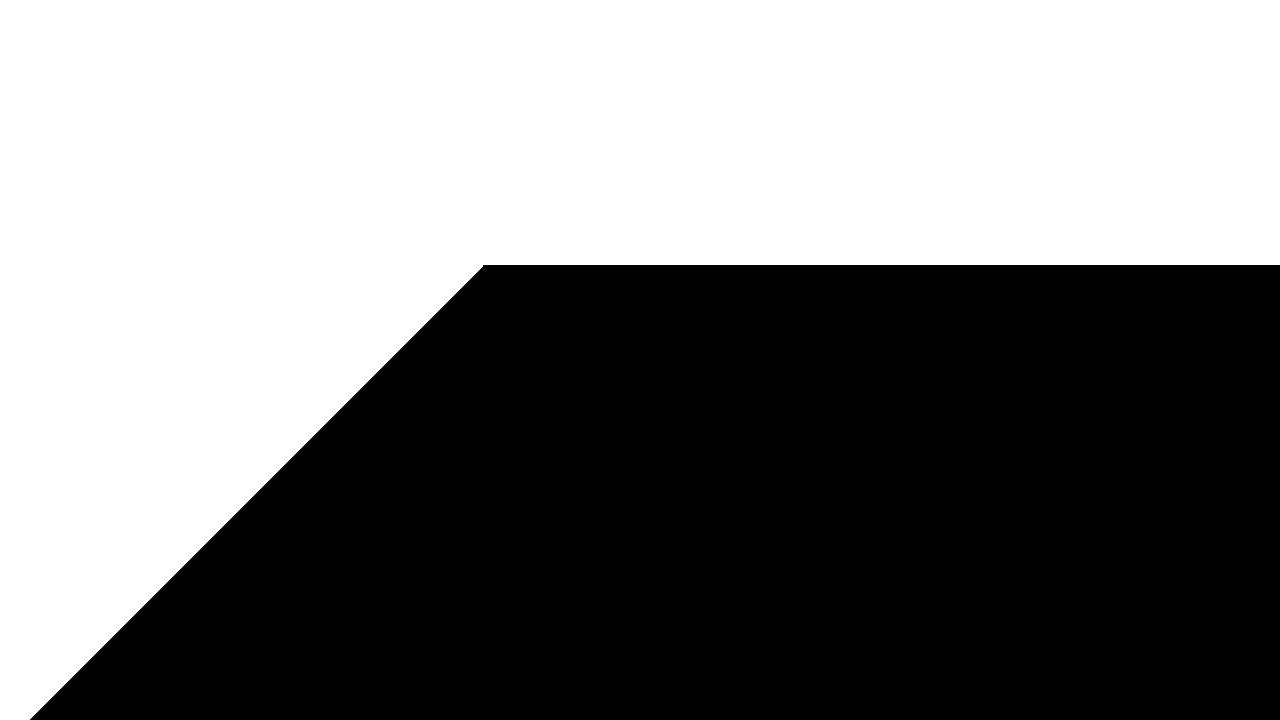
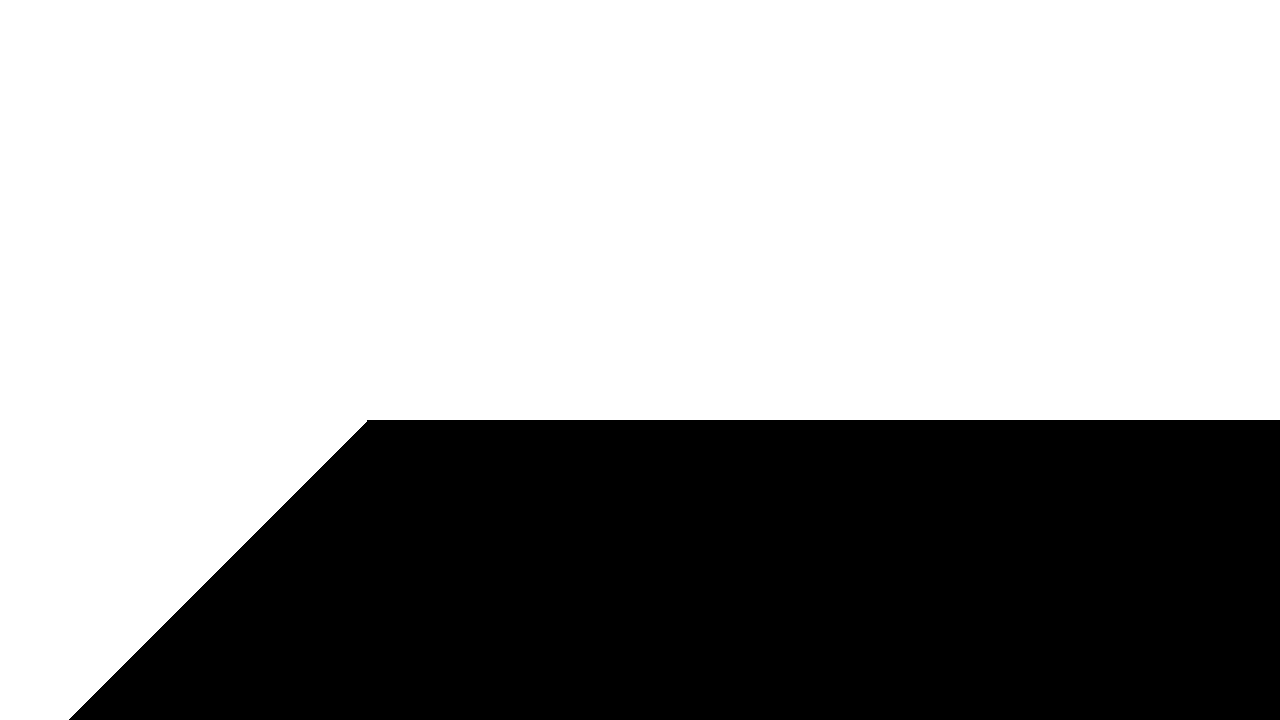
# 0.20

Changed region(s): [[0.0312, 0.3667, 1.0, 1.0]]

diff --git a/RunawayTrain/RaspberryPi/DrivingManager.h b/RunawayTrain/RaspberryPi/DrivingManager.h
@@ -13,7 +13,7 @@ class DrivingManager
 private:
 
 	bool mDebugProcessShow = true;
-	bool mDebugImageTest = false;
+	bool mDebugImageTest = true;
 
 	RoadTracer* mRoadTracer = RoadTracer::Instance();
 	MotorController* mMotorController = MotorController::Instance();
@@ -62,11 +62,14 @@ private:
 		if (!mDebugImageTest)
 		{
 			mCapture.read(mFrameOrigianl);
+
+#ifdef WINDOWS
 			if (mFrameOrigianl.empty())
 			{
 				cout << "Error : DrivingManager::Preprocess";
 				exit(-1);
 			}
+#endif
 		}
 		else
 		{
@@ -98,7 +101,9 @@ private:
 			testCase++;
 		}
 
-		resize(mFrameOrigianl, mFrameOrigianl, { 1280, 720 });
+#ifdef WINDOWS
+		resize(mFrameOrigianl, mFrameOrigianl, { 640, 480 });
+#endif
 		mFrameOrigianl.copyTo(mFrameFinal);
 	}
 
@@ -169,7 +174,7 @@ public:
 			}
 
 			putText(mFrameFinal,
-				to_string(int(1 / mLoopTimer.GetElapsedTime())), { 1200,40 },
+				to_string(int(1 / mLoopTimer.GetElapsedTime())), { 600,40 },
 				FONT_HERSHEY_DUPLEX, 1, Scalar(0, 255, 0), 1);
 
 			putText(mFrameFinal,

diff --git a/RunawayTrain/Windows/DrivingManager.h b/RunawayTrain/Windows/DrivingManager.h
@@ -13,7 +13,7 @@ class DrivingManager
 private:
 
 	bool mDebugProcessShow = true;
-	bool mDebugImageTest = false;
+	bool mDebugImageTest = true;
 
 	RoadTracer* mRoadTracer = RoadTracer::Instance();
 	MotorController* mMotorController = MotorController::Instance();
@@ -62,11 +62,14 @@ private:
 		if (!mDebugImageTest)
 		{
 			mCapture.read(mFrameOrigianl);
+
+#ifdef WINDOWS
 			if (mFrameOrigianl.empty())
 			{
 				cout << "Error : DrivingManager::Preprocess";
 				exit(-1);
 			}
+#endif
 		}
 		else
 		{
@@ -98,7 +101,9 @@ private:
 			testCase++;
 		}
 
-		resize(mFrameOrigianl, mFrameOrigianl, { 1280, 720 });
+#ifdef WINDOWS
+		resize(mFrameOrigianl, mFrameOrigianl, { 640, 480 });
+#endif
 		mFrameOrigianl.copyTo(mFrameFinal);
 	}
 
@@ -169,7 +174,7 @@ public:
 			}
 
 			putText(mFrameFinal,
-				to_string(int(1 / mLoopTimer.GetElapsedTime())), { 1200,40 },
+				to_string(int(1 / mLoopTimer.GetElapsedTime())), { 560,40 },
 				FONT_HERSHEY_DUPLEX, 1, Scalar(0, 255, 0), 1);
 
 			putText(mFrameFinal,

diff --git a/RunawayTrain/Windows/RoadTracer.h b/RunawayTrain/Windows/RoadTracer.h
@@ -17,14 +17,14 @@ private:
 	Mat mFrameOriginal, mFrameFinal;
 	Mat mFramePerspective, mFrameEdge, mFrameEdgeCenter, mFrameHistogram;
 
-	float mXMarginTop = 100;	// 267
+	float mXMarginTop = 0;	// 267
 	float mXMarginBottom = 0;	// 66
-	float mYPos = 360;			// 480
-	float mYSize = 360;			// 66
+	float mYPos = 240;			// 480
+	float mYSize = 240;			// 66
 
 	Point2f mSrcROI[4] = {
-		{mXMarginTop,mYPos}, {1280 - mXMarginTop,mYPos},
-		{mXMarginBottom, mYPos + mYSize}, {1280 - mXMarginBottom, mYPos + mYSize}
+		{mXMarginTop,mYPos}, {640 - mXMarginTop,mYPos},
+		{mXMarginBottom, mYPos + mYSize}, {640 - mXMarginBottom, mYPos + mYSize}
 	};
 
 	Point2f mDstROI[4] = {

diff --git a/RunawayTrain/RaspberryPi/RoadTracer.cpp b/RunawayTrain/RaspberryPi/RoadTracer.cpp
@@ -17,8 +17,8 @@ void RoadTracer::Threshold()
 	cvtColor(mFramePerspective, mFramePerspective, COLOR_BGR2GRAY);
 	GaussianBlur(mFramePerspective, mFramePerspective, Size(7, 7), 0, 0);
 	threshold(mFramePerspective, mFramePerspective, 80, 255, THRESH_BINARY);
-	Canny(mFramePerspective, mFrameEdge, 50, 150, 3, false);
-	HoughLines(mFrameEdge, mLines, 1, 1 * CV_PI / 180, 80);
+	Canny(mFramePerspective, mFrameEdge, 50, 100, 3, false);
+	HoughLines(mFrameEdge, mLines, 1, 1 * CV_PI / 180, 75);
 	cvtColor(mFrameEdge, mFrameEdge, COLOR_GRAY2BGR);
 
 	float rho, theta;

diff --git a/RunawayTrain/Windows/RoadTracer.cpp b/RunawayTrain/Windows/RoadTracer.cpp
@@ -17,8 +17,8 @@ void RoadTracer::Threshold()
 	cvtColor(mFramePerspective, mFramePerspective, COLOR_BGR2GRAY);
 	GaussianBlur(mFramePerspective, mFramePerspective, Size(7, 7), 0, 0);
 	threshold(mFramePerspective, mFramePerspective, 80, 255, THRESH_BINARY);
-	Canny(mFramePerspective, mFrameEdge, 50, 150, 3, false);
-	HoughLines(mFrameEdge, mLines, 1, 1 * CV_PI / 180, 80);
+	Canny(mFramePerspective, mFrameEdge, 50, 100, 3, false);
+	HoughLines(mFrameEdge, mLines, 1, 1 * CV_PI / 180, 75);
 	cvtColor(mFrameEdge, mFrameEdge, COLOR_GRAY2BGR);
 
 	float rho, theta;

diff --git a/RunawayTrain/RaspberryPi/RoadTracer.h b/RunawayTrain/RaspberryPi/RoadTracer.h
@@ -19,12 +19,12 @@ private:
 
 	float mXMarginTop = 100;	// 267
 	float mXMarginBottom = 0;	// 66
-	float mYPos = 360;			// 480
-	float mYSize = 360;			// 66
+	float mYPos = 240;			// 480
+	float mYSize = 240;			// 66
 
 	Point2f mSrcROI[4] = {
-		{mXMarginTop,mYPos}, {1280 - mXMarginTop,mYPos},
-		{mXMarginBottom, mYPos + mYSize}, {1280 - mXMarginBottom, mYPos + mYSize}
+		{mXMarginTop,mYPos}, {720 - mXMarginTop,mYPos},
+		{mXMarginBottom, mYPos + mYSize}, {720 - mXMarginBottom, mYPos + mYSize}
 	};
 
 	Point2f mDstROI[4] = {

diff --git a/RunawayTrain/RaspberryPi/main.cpp b/RunawayTrain/RaspberryPi/main.cpp
@@ -1,4 +1,4 @@
-#define TEST 1
+#define TEST 0
 
 #if !TEST
 #include "DrivingManager.h"
